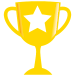
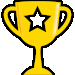
Change of hallOfFame graphics and sound fix in hOF

Changed region(s): [[0.0, 0.0, 0.9867, 1.0], [0.2933, 0.0533, 0.6933, 0.4533], [0.7467, 0.1333, 0.9067, 0.4267]]

diff --git a/HallOfFame.py b/HallOfFame.py
@@ -21,6 +21,7 @@ button_click_sound = pygame.mixer.Sound("assets/audio/menu/button_click.mp3")
 back_to_menu_img = pygame.image.load("graphics/menu/backToMenuButton.png").convert_alpha()
 
 def main(callback):
+    settings = load_settings()
     screen = pygame.display.set_mode((1024, 1024))
 
     #Play hall of fame music
@@ -58,7 +59,8 @@ def main(callback):
             if event.type == pygame.MOUSEBUTTONDOWN:
                 if event.button == 1:
                     if back_button.rect.collidepoint(event.pos):
-                        button_click_sound.play()
+                        if settings['SOUND_EFFECTS']:
+                            button_click_sound.play()
                         callback()
                         return
 
